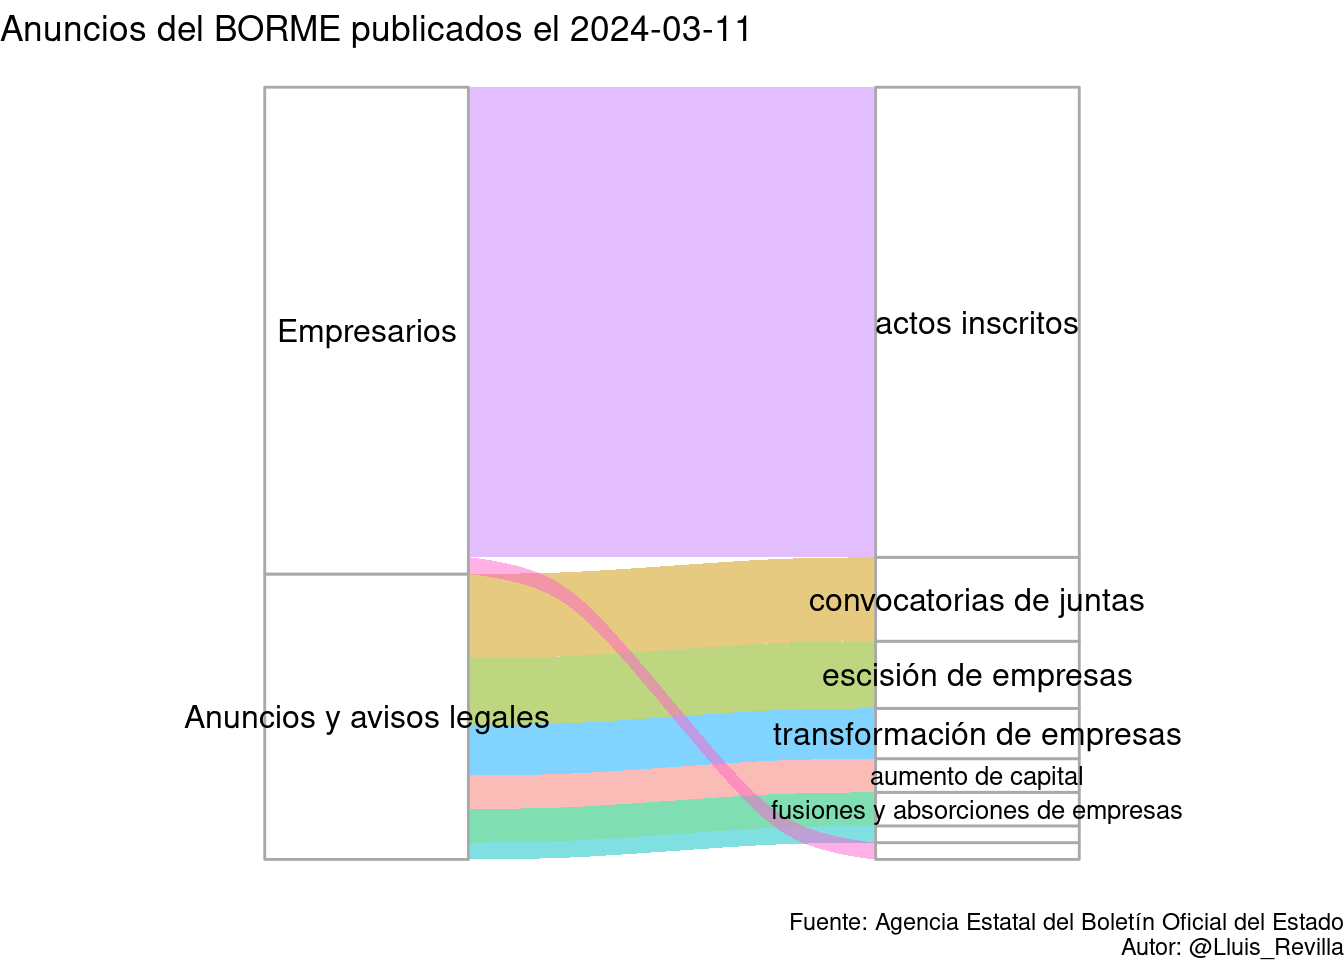
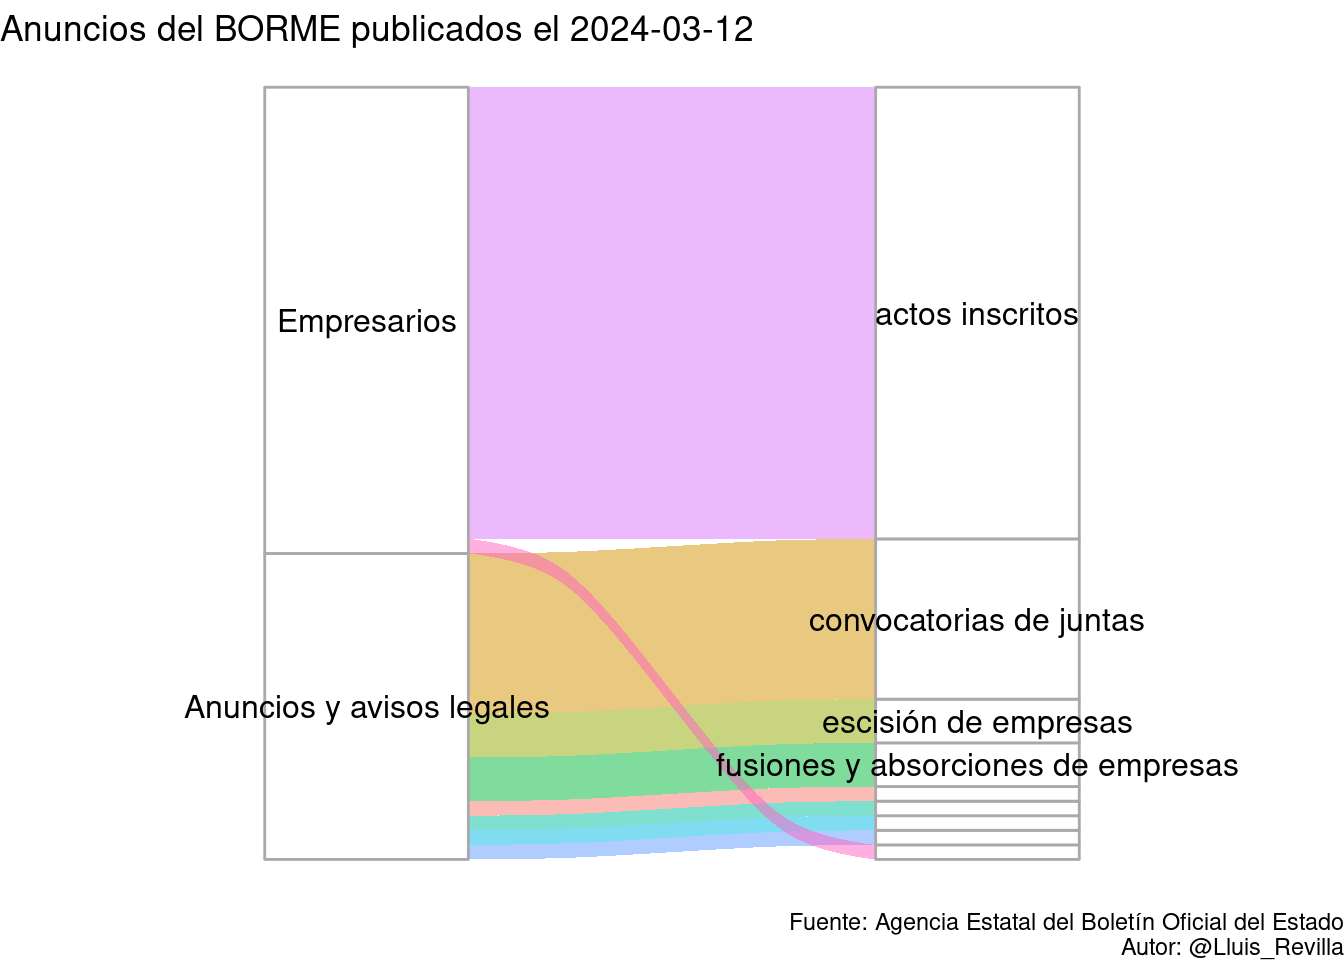
Update BORME

diff --git a/docs/last_BORME.html b/docs/last_BORME.html
@@ -379,14 +379,14 @@ $(document).ready(function () {
 
 <div id="resumen-gráfico" class="section level1">
 <h1>Resumen gráfico</h1>
-<p>Esta página web contiene el último sumario del BORME publicado el 2024-03-11 con 46 publicaciones.</p>
+<p>Esta página web contiene el último sumario del BORME publicado el 2024-03-12 con 53 publicaciones.</p>
 <p><img src="last_BORME_files/figure-html/graphics-1.png" width="672" /></p>
 </div>
 <div id="tabla-de-publicaciones" class="section level1">
 <h1>Tabla de publicaciones</h1>
 <p>Aquí está la tabla completa con enlaces a las publicaciones:</p>
-<div class="datatables html-widget html-fill-item-overflow-hidden html-fill-item" id="htmlwidget-727567c50c0c6086a842" style="width:100%;height:auto;"></div>
-<script type="application/json" data-for="htmlwidget-727567c50c0c6086a842">{"x":{"filter":"top","vertical":false,"filterHTML":"<tr>\n  <td><\/td>\n  <td data-type=\"character\" style=\"vertical-align: top;\">\n    <div class=\"form-group has-feedback\" style=\"margin-bottom: auto;\">\n      <input type=\"search\" placeholder=\"All\" class=\"form-control\" style=\"width: 100%;\"/>\n      <span class=\"glyphicon glyphicon-remove-circle form-control-feedback\"><\/span>\n    <\/div>\n  <\/td>\n  <td data-type=\"character\" style=\"vertical-align: top;\">\n    <div class=\"form-group has-feedback\" style=\"margin-bottom: auto;\">\n      <input type=\"search\" placeholder=\"All\" class=\"form-control\" style=\"width: 100%;\"/>\n      <span class=\"glyphicon glyphicon-remove-circle form-control-feedback\"><\/span>\n    <\/div>\n  <\/td>\n  <td data-type=\"character\" style=\"vertical-align: top;\">\n    <div class=\"form-group has-feedback\" style=\"margin-bottom: auto;\">\n      <input type=\"search\" placeholder=\"All\" class=\"form-control\" style=\"width: 100%;\" disabled=\"\"/>\n      <span class=\"glyphicon glyphicon-remove-circle form-control-feedback\"><\/span>\n    <\/div>\n  <\/td>\n  <td data-type=\"character\" style=\"vertical-align: top;\">\n    <div class=\"form-group has-feedback\" style=\"margin-bottom: auto;\">\n      <input type=\"search\" placeholder=\"All\" class=\"form-control\" style=\"width: 100%;\"/>\n      <span class=\"glyphicon glyphicon-remove-circle form-control-feedback\"><\/span>\n    <\/div>\n  <\/td>\n<\/tr>","data":[["1","2","3","4","5","6","7","8","9","10","11","12","13","14","15","16","17","18","19","20","21","22","23","24","25","26","27","28","29","30","31","32","33","34","35","36","37","38","39","40","41","42","43","44","45","46"],["SECCIÓN PRIMERA. Empresarios","SECCIÓN PRIMERA. Empresarios","SECCIÓN PRIMERA. Empresarios","SECCIÓN PRIMERA. Empresarios","SECCIÓN PRIMERA. Empresarios","SECCIÓN PRIMERA. Empresarios","SECCIÓN PRIMERA. Empresarios","SECCIÓN PRIMERA. Empresarios","SECCIÓN PRIMERA. Empresarios","SECCIÓN PRIMERA. Empresarios","SECCIÓN PRIMERA. Empresarios","SECCIÓN PRIMERA. Empresarios","SECCIÓN PRIMERA. Empresarios","SECCIÓN PRIMERA. Empresarios","SECCIÓN PRIMERA. Empresarios","SECCIÓN PRIMERA. Empresarios","SECCIÓN PRIMERA. Empresarios","SECCIÓN PRIMERA. Empresarios","SECCIÓN PRIMERA. Empresarios","SECCIÓN PRIMERA. Empresarios","SECCIÓN PRIMERA. Empresarios","SECCIÓN PRIMERA. Empresarios","SECCIÓN PRIMERA. Empresarios","SECCIÓN PRIMERA. Empresarios","SECCIÓN PRIMERA. Empresarios","SECCIÓN PRIMERA. Empresarios","SECCIÓN PRIMERA. Empresarios","SECCIÓN PRIMERA. Empresarios","SECCIÓN PRIMERA. Empresarios","SECCIÓN SEGUNDA. Anuncios y avisos legales","SECCIÓN SEGUNDA. Anuncios y avisos legales","SECCIÓN SEGUNDA. Anuncios y avisos legales","SECCIÓN SEGUNDA. Anuncios y avisos legales","SECCIÓN SEGUNDA. Anuncios y avisos legales","SECCIÓN SEGUNDA. Anuncios y avisos legales","SECCIÓN SEGUNDA. Anuncios y avisos legales","SECCIÓN SEGUNDA. Anuncios y avisos legales","SECCIÓN SEGUNDA. Anuncios y avisos legales","SECCIÓN SEGUNDA. Anuncios y avisos legales","SECCIÓN SEGUNDA. Anuncios y avisos legales","SECCIÓN SEGUNDA. Anuncios y avisos legales","SECCIÓN SEGUNDA. Anuncios y avisos legales","SECCIÓN SEGUNDA. Anuncios y avisos legales","SECCIÓN SEGUNDA. Anuncios y avisos legales","SECCIÓN SEGUNDA. Anuncios y avisos legales","SECCIÓN SEGUNDA. Anuncios y avisos legales"],["Actos inscritos","Actos inscritos","Actos inscritos","Actos inscritos","Actos inscritos","Actos inscritos","Actos inscritos","Actos inscritos","Actos inscritos","Actos inscritos","Actos inscritos","Actos inscritos","Actos inscritos","Actos inscritos","Actos inscritos","Actos inscritos","Actos inscritos","Actos inscritos","Actos inscritos","Actos inscritos","Actos inscritos","Actos inscritos","Actos inscritos","Actos inscritos","Actos inscritos","Actos inscritos","Actos inscritos","Actos inscritos","Otros actos publicados en el Registro Mercantil","CONVOCATORIAS DE JUNTAS","CONVOCATORIAS DE JUNTAS","CONVOCATORIAS DE JUNTAS","CONVOCATORIAS DE JUNTAS","CONVOCATORIAS DE JUNTAS","FUSIONES Y ABSORCIONES DE EMPRESAS","FUSIONES Y ABSORCIONES DE EMPRESAS","ESCISIÓN DE EMPRESAS","ESCISIÓN DE EMPRESAS","ESCISIÓN DE EMPRESAS","ESCISIÓN DE EMPRESAS","TRANSFORMACIÓN DE EMPRESAS","TRANSFORMACIÓN DE EMPRESAS","TRANSFORMACIÓN DE EMPRESAS","AUMENTO DE CAPITAL","AUMENTO DE CAPITAL","REDUCCIÓN DE CAPITAL"],[null,null,null,null,null,null,null,null,null,null,null,null,null,null,null,null,null,null,null,null,null,null,null,null,null,null,null,null,null,null,null,null,null,null,null,null,null,null,null,null,null,null,null,null,null,null],["BORME-A-2024-50-03","BORME-A-2024-50-04","BORME-A-2024-50-06","BORME-A-2024-50-07","BORME-A-2024-50-08","BORME-A-2024-50-11","BORME-A-2024-50-14","BORME-A-2024-50-15","BORME-A-2024-50-17","BORME-A-2024-50-18","BORME-A-2024-50-22","BORME-A-2024-50-23","BORME-A-2024-50-24","BORME-A-2024-50-25","BORME-A-2024-50-28","BORME-A-2024-50-29","BORME-A-2024-50-30","BORME-A-2024-50-31","BORME-A-2024-50-32","BORME-A-2024-50-33","BORME-A-2024-50-35","BORME-A-2024-50-36","BORME-A-2024-50-43","BORME-A-2024-50-44","BORME-A-2024-50-45","BORME-A-2024-50-46","BORME-A-2024-50-47","BORME-A-2024-50-99","BORME-B-2024-50-17","BORME-C-2024-756","BORME-C-2024-757","BORME-C-2024-758","BORME-C-2024-759","BORME-C-2024-760","BORME-C-2024-761","BORME-C-2024-762","BORME-C-2024-763","BORME-C-2024-764","BORME-C-2024-765","BORME-C-2024-766","BORME-C-2024-767","BORME-C-2024-768","BORME-C-2024-769","BORME-C-2024-770","BORME-C-2024-771","BORME-C-2024-772"]],"container":"<table class=\"display\">\n  <thead>\n    <tr>\n      <th> <\/th>\n      <th>Sección<\/th>\n      <th>Emisor<\/th>\n      <th>Texto<\/th>\n      <th>Link<\/th>\n    <\/tr>\n  <\/thead>\n<\/table>","options":{"pageLength":10,"autoWidth":true,"columnDefs":[{"orderable":false,"targets":0},{"name":" ","targets":0},{"name":"Sección","targets":1},{"name":"Emisor","targets":2},{"name":"Texto","targets":3},{"name":"Link","targets":4}],"order":[],"orderClasses":false,"orderCellsTop":true}},"evals":[],"jsHooks":[]}</script>
+<div class="datatables html-widget html-fill-item-overflow-hidden html-fill-item" id="htmlwidget-b52dba68681c5f85ed1c" style="width:100%;height:auto;"></div>
+<script type="application/json" data-for="htmlwidget-b52dba68681c5f85ed1c">{"x":{"filter":"top","vertical":false,"filterHTML":"<tr>\n  <td><\/td>\n  <td data-type=\"character\" style=\"vertical-align: top;\">\n    <div class=\"form-group has-feedback\" style=\"margin-bottom: auto;\">\n      <input type=\"search\" placeholder=\"All\" class=\"form-control\" style=\"width: 100%;\"/>\n      <span class=\"glyphicon glyphicon-remove-circle form-control-feedback\"><\/span>\n    <\/div>\n  <\/td>\n  <td data-type=\"character\" style=\"vertical-align: top;\">\n    <div class=\"form-group has-feedback\" style=\"margin-bottom: auto;\">\n      <input type=\"search\" placeholder=\"All\" class=\"form-control\" style=\"width: 100%;\"/>\n      <span class=\"glyphicon glyphicon-remove-circle form-control-feedback\"><\/span>\n    <\/div>\n  <\/td>\n  <td data-type=\"character\" style=\"vertical-align: top;\">\n    <div class=\"form-group has-feedback\" style=\"margin-bottom: auto;\">\n      <input type=\"search\" placeholder=\"All\" class=\"form-control\" style=\"width: 100%;\" disabled=\"\"/>\n      <span class=\"glyphicon glyphicon-remove-circle form-control-feedback\"><\/span>\n    <\/div>\n  <\/td>\n  <td data-type=\"character\" style=\"vertical-align: top;\">\n    <div class=\"form-group has-feedback\" style=\"margin-bottom: auto;\">\n      <input type=\"search\" placeholder=\"All\" class=\"form-control\" style=\"width: 100%;\"/>\n      <span class=\"glyphicon glyphicon-remove-circle form-control-feedback\"><\/span>\n    <\/div>\n  <\/td>\n<\/tr>","data":[["1","2","3","4","5","6","7","8","9","10","11","12","13","14","15","16","17","18","19","20","21","22","23","24","25","26","27","28","29","30","31","32","33","34","35","36","37","38","39","40","41","42","43","44","45","46","47","48","49","50","51","52","53"],["SECCIÓN PRIMERA. Empresarios","SECCIÓN PRIMERA. Empresarios","SECCIÓN PRIMERA. Empresarios","SECCIÓN PRIMERA. Empresarios","SECCIÓN PRIMERA. Empresarios","SECCIÓN PRIMERA. Empresarios","SECCIÓN PRIMERA. Empresarios","SECCIÓN PRIMERA. Empresarios","SECCIÓN PRIMERA. Empresarios","SECCIÓN PRIMERA. Empresarios","SECCIÓN PRIMERA. Empresarios","SECCIÓN PRIMERA. Empresarios","SECCIÓN PRIMERA. Empresarios","SECCIÓN PRIMERA. Empresarios","SECCIÓN PRIMERA. Empresarios","SECCIÓN PRIMERA. Empresarios","SECCIÓN PRIMERA. Empresarios","SECCIÓN PRIMERA. Empresarios","SECCIÓN PRIMERA. Empresarios","SECCIÓN PRIMERA. Empresarios","SECCIÓN PRIMERA. Empresarios","SECCIÓN PRIMERA. Empresarios","SECCIÓN PRIMERA. Empresarios","SECCIÓN PRIMERA. Empresarios","SECCIÓN PRIMERA. Empresarios","SECCIÓN PRIMERA. Empresarios","SECCIÓN PRIMERA. Empresarios","SECCIÓN PRIMERA. Empresarios","SECCIÓN PRIMERA. Empresarios","SECCIÓN PRIMERA. Empresarios","SECCIÓN PRIMERA. Empresarios","SECCIÓN PRIMERA. Empresarios","SECCIÓN SEGUNDA. Anuncios y avisos legales","SECCIÓN SEGUNDA. Anuncios y avisos legales","SECCIÓN SEGUNDA. Anuncios y avisos legales","SECCIÓN SEGUNDA. Anuncios y avisos legales","SECCIÓN SEGUNDA. Anuncios y avisos legales","SECCIÓN SEGUNDA. Anuncios y avisos legales","SECCIÓN SEGUNDA. Anuncios y avisos legales","SECCIÓN SEGUNDA. Anuncios y avisos legales","SECCIÓN SEGUNDA. Anuncios y avisos legales","SECCIÓN SEGUNDA. Anuncios y avisos legales","SECCIÓN SEGUNDA. Anuncios y avisos legales","SECCIÓN SEGUNDA. Anuncios y avisos legales","SECCIÓN SEGUNDA. Anuncios y avisos legales","SECCIÓN SEGUNDA. Anuncios y avisos legales","SECCIÓN SEGUNDA. Anuncios y avisos legales","SECCIÓN SEGUNDA. Anuncios y avisos legales","SECCIÓN SEGUNDA. Anuncios y avisos legales","SECCIÓN SEGUNDA. Anuncios y avisos legales","SECCIÓN SEGUNDA. Anuncios y avisos legales","SECCIÓN SEGUNDA. Anuncios y avisos legales","SECCIÓN SEGUNDA. Anuncios y avisos legales"],["Actos inscritos","Actos inscritos","Actos inscritos","Actos inscritos","Actos inscritos","Actos inscritos","Actos inscritos","Actos inscritos","Actos inscritos","Actos inscritos","Actos inscritos","Actos inscritos","Actos inscritos","Actos inscritos","Actos inscritos","Actos inscritos","Actos inscritos","Actos inscritos","Actos inscritos","Actos inscritos","Actos inscritos","Actos inscritos","Actos inscritos","Actos inscritos","Actos inscritos","Actos inscritos","Actos inscritos","Actos inscritos","Actos inscritos","Actos inscritos","Actos inscritos","Otros actos publicados en el Registro Mercantil","CONVOCATORIAS DE JUNTAS","CONVOCATORIAS DE JUNTAS","CONVOCATORIAS DE JUNTAS","CONVOCATORIAS DE JUNTAS","CONVOCATORIAS DE JUNTAS","CONVOCATORIAS DE JUNTAS","CONVOCATORIAS DE JUNTAS","CONVOCATORIAS DE JUNTAS","CONVOCATORIAS DE JUNTAS","CONVOCATORIAS DE JUNTAS","CONVOCATORIAS DE JUNTAS","FUSIONES Y ABSORCIONES DE EMPRESAS","FUSIONES Y ABSORCIONES DE EMPRESAS","FUSIONES Y ABSORCIONES DE EMPRESAS","ESCISIÓN DE EMPRESAS","ESCISIÓN DE EMPRESAS","ESCISIÓN DE EMPRESAS","TRANSFORMACIÓN DE EMPRESAS","AUMENTO DE CAPITAL","REDUCCIÓN DE CAPITAL","OTROS ANUNCIOS Y AVISOS LEGALES"],[null,null,null,null,null,null,null,null,null,null,null,null,null,null,null,null,null,null,null,null,null,null,null,null,null,null,null,null,null,null,null,null,null,null,null,null,null,null,null,null,null,null,null,null,null,null,null,null,null,null,null,null,null],["BORME-A-2024-51-03","BORME-A-2024-51-04","BORME-A-2024-51-06","BORME-A-2024-51-07","BORME-A-2024-51-08","BORME-A-2024-51-10","BORME-A-2024-51-11","BORME-A-2024-51-12","BORME-A-2024-51-13","BORME-A-2024-51-15","BORME-A-2024-51-17","BORME-A-2024-51-24","BORME-A-2024-51-25","BORME-A-2024-51-26","BORME-A-2024-51-28","BORME-A-2024-51-29","BORME-A-2024-51-30","BORME-A-2024-51-31","BORME-A-2024-51-33","BORME-A-2024-51-35","BORME-A-2024-51-36","BORME-A-2024-51-38","BORME-A-2024-51-40","BORME-A-2024-51-42","BORME-A-2024-51-43","BORME-A-2024-51-45","BORME-A-2024-51-46","BORME-A-2024-51-47","BORME-A-2024-51-48","BORME-A-2024-51-50","BORME-A-2024-51-99","BORME-B-2024-51-31","BORME-C-2024-773","BORME-C-2024-774","BORME-C-2024-775","BORME-C-2024-776","BORME-C-2024-777","BORME-C-2024-778","BORME-C-2024-779","BORME-C-2024-780","BORME-C-2024-781","BORME-C-2024-782","BORME-C-2024-783","BORME-C-2024-784","BORME-C-2024-785","BORME-C-2024-786","BORME-C-2024-787","BORME-C-2024-788","BORME-C-2024-789","BORME-C-2024-790","BORME-C-2024-791","BORME-C-2024-792","BORME-C-2024-793"]],"container":"<table class=\"display\">\n  <thead>\n    <tr>\n      <th> <\/th>\n      <th>Sección<\/th>\n      <th>Emisor<\/th>\n      <th>Texto<\/th>\n      <th>Link<\/th>\n    <\/tr>\n  <\/thead>\n<\/table>","options":{"pageLength":10,"autoWidth":true,"columnDefs":[{"orderable":false,"targets":0},{"name":" ","targets":0},{"name":"Sección","targets":1},{"name":"Emisor","targets":2},{"name":"Texto","targets":3},{"name":"Link","targets":4}],"order":[],"orderClasses":false,"orderCellsTop":true}},"evals":[],"jsHooks":[]}</script>
 </div>
 
 
